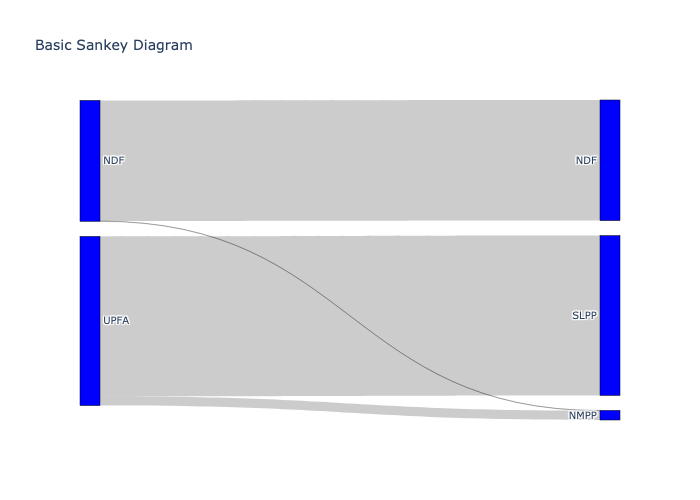
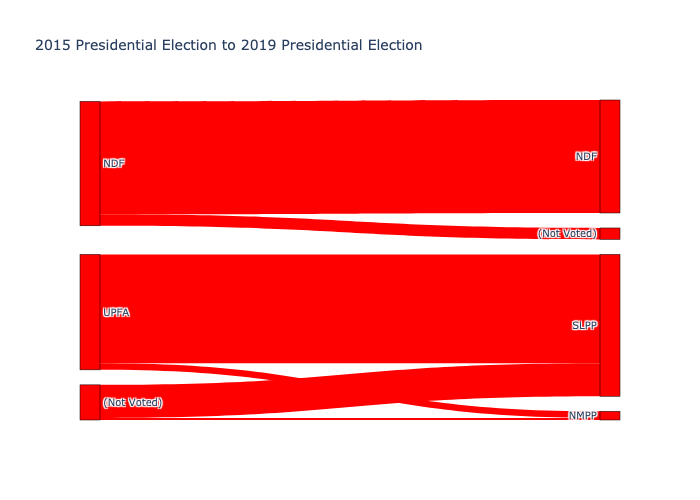
various

diff --git a/examples/example5_party_continuity/example5_party_continuity.py b/examples/example5_party_continuity/example5_party_continuity.py
@@ -4,11 +4,12 @@ import plotly.graph_objects as go
 from sklearn.linear_model import LinearRegression
 from utils import Log, TSVFile
 
-from elections_lk import ElectionPresidential
+from elections_lk import ElectionPresidential, Party
 
 log = Log('PartyContinuity')
 
 P_LIMIT = 0.005
+NOT_VOTED = '(Not Voted)'
 
 
 class PartyContinuity:
@@ -22,7 +23,7 @@ class PartyContinuity:
         idx = {}
         for result in election.results:
             id = result.region_id
-            d = result.party_to_votes.dict_p
+            d = result.party_to_votes.dict
             x = [d.get(party, 0) for party in popular_parties]
             idx[id] = x
         return [idx[id] for id in sorted(idx.keys())]
@@ -58,28 +59,60 @@ class PartyContinuity:
         )
 
     @property
-    def report_d_list(self):
+    def matrix(self):
         model = self.model
         popular_parties_x = self.election_x.get_popular_parties(P_LIMIT)
         popular_parties_y = self.election_y.get_popular_parties(P_LIMIT)
         log.debug(f'{popular_parties_x} -> {popular_parties_y}')
 
-        d_list = []
+        matrix = {}
 
         for i_x, party_x in enumerate(popular_parties_x):
-            d = {'party_x': party_x}
-            x = [
-                (1 if party == party_x else 0) for party in popular_parties_x
-            ]
-            yhat = model.predict([x])[0]
-
+            matrix[party_x] = {}
+            total = election_x.country_final_result.party_to_votes.dict.get(
+                party_x,
+                0,
+            )
             for i_y, party_y in enumerate(popular_parties_y):
-                d[party_y] = yhat[i_y]
+                matrix[party_x][party_y] = model.coef_[i_y][i_x] * total
+
+        not_visited_y = {}
+        for party_y in popular_parties_y:
+            not_visited_y[party_y] = 0
+        not_visited_y[NOT_VOTED] = 0
+
+        for party_x in popular_parties_x:
+            total_x = election_x.country_final_result.party_to_votes.dict.get(
+                party_x,
+                0,
+            )
+            total_y = sum(matrix[party_x].values())
+            not_visited_x = max(total_x - total_y, 0)
+            matrix[party_x][NOT_VOTED] = not_visited_x
+
+            if total_y > total_x:
+                r = total_x / total_y
+                for party_y in popular_parties_y:
+                    val = matrix[party_x][party_y]
+                    matrix[party_x][party_y] = val * r
+                    not_visited_y[party_y] = val * (1 - r)
+
+        matrix[NOT_VOTED] = not_visited_y
+        return matrix
+
+    @property
+    def d_list(self):
+        matrix = self.matrix
+        d_list = []
+        for party_x in matrix:
+            d = {'party': party_x}
+            for party_y, value in matrix[party_x].items():
+                d[party_y] = round(value, 0)
             d_list.append(d)
         return d_list
 
     def save(self):
-        TSVFile(self.report_file_path).write(self.report_d_list)
+        TSVFile(self.report_file_path).write(self.d_list)
         log.info(f'Saved {self.report_file_path}')
         os.system(f'open {self.report_file_path}')
 
@@ -91,7 +124,45 @@ class PartyContinuity:
             f'sankey_{self.election_x.year}_{self.election_y.year}.png',
         )
 
+    @property
+    def title(self):
+        return f'{self.election_x.title} to {self.election_y.title}'
+
     def draw(self):
+        matrix = self.matrix
+        label = []
+
+        i = 0
+        label_to_ix = {}
+        node_color = []
+        for party_x in matrix:
+            label.append(party_x)
+            label_to_ix[party_x] = i
+            i += 1
+            node_color.append(Party(party_x).color)
+
+        label_to_iy = {}
+        for party_y in list(matrix.values())[0].keys():
+            label.append(party_y)
+            label_to_iy[party_y] = i
+            i += 1
+            node_color.append(Party(party_y).color)
+
+        print(label)
+
+        source = []
+        target = []
+        value = []
+        color = []
+        for party_x in matrix:
+            i_x = label_to_ix[party_x]
+            for party_y in matrix[party_x]:
+                i_y = label_to_iy[party_y]
+                source.append(i_x)
+                target.append(i_y)
+                value.append(matrix[party_x][party_y])
+                color.append('red')
+
         fig = go.Figure(
             data=[
                 go.Sankey(
@@ -99,29 +170,20 @@ class PartyContinuity:
                         pad=15,
                         thickness=20,
                         line=dict(color="black", width=0.5),
-                        label=["NDF", "UPFA", "NDF", "SLPP", "NMPP"],
-                        color="blue",
+                        label=label,
+                        color=color,
                     ),
                     link=dict(
-                        source=[
-                            0,
-                            0,
-                            1,
-                            1,
-                        ],
-                        target=[2, 4, 3, 4],
-                        value=[
-                            0.837544922,
-                            0.001904294,
-                            1.110049477,
-                            0.064564766,
-                        ],
+                        source=source,
+                        target=target,
+                        value=value,
+                        color=color,
                     ),
                 )
             ]
         )
 
-        fig.update_layout(title_text="Basic Sankey Diagram", font_size=10)
+        fig.update_layout(title_text=self.title, font_size=10)
         fig.write_image(self.image_file_path)
         log.info(f'Saved {self.image_file_path}')
         os.system(f'open {self.image_file_path}')

diff --git a/src/elections_lk/__init__.py b/src/elections_lk/__init__.py
@@ -1,5 +1,13 @@
 from elections_lk.elections.Election import Election
-from elections_lk.elections.ElectionLocalAuthority import \
-    ElectionLocalAuthority
+from elections_lk.elections.ElectionLocalAuthority import (
+    ElectionLocalAuthority,
+)
 from elections_lk.elections.ElectionParliamentary import ElectionParliamentary
 from elections_lk.elections.ElectionPresidential import ElectionPresidential
+
+from elections_lk.core.FinalResult import FinalResult
+from elections_lk.core.Party import Party
+from elections_lk.core.PartyToSeats import PartyToSeats
+from elections_lk.core.PartyToVotes import PartyToVotes
+from elections_lk.core.Result import Result
+from elections_lk.core.SummaryStatistics import SummaryStatistics

diff --git a/src/elections_lk/elections/Election.py b/src/elections_lk/elections/Election.py
@@ -3,7 +3,9 @@ from functools import cached_property
 
 from utils import Log
 
-from elections_lk.core import PartyToVotes, Result, SummaryStatistics
+from elections_lk.core.PartyToVotes import PartyToVotes
+from elections_lk.core.Result import Result
+from elections_lk.core.SummaryStatistics import SummaryStatistics
 
 log = Log('Election')
 
@@ -16,6 +18,10 @@ def correct_int(x):
 class Election:
     year: int
     results: list
+
+    @property
+    def title(self):
+        return f'{self.year} {self.get_election_type().title()} Election'
 
     @cached_property
     def all_parties(self):

diff --git a/src/elections_lk/elections/ElectionParliamentary.py b/src/elections_lk/elections/ElectionParliamentary.py
@@ -1,9 +1,13 @@
 from functools import cached_property
 
-from elections_lk.core import FinalResult, PartyToSeats, Result
+from elections_lk.core.FinalResult import FinalResult
+from elections_lk.core.PartyToSeats import PartyToSeats
+from elections_lk.core.Result import Result
+
 from elections_lk.elections.ElectionWithPDResults import ElectionWithPDResults
-from elections_lk.elections.YEAR_TO_REGION_TO_SEATS import \
-    YEAR_TO_REGION_TO_SEATS
+from elections_lk.elections.YEAR_TO_REGION_TO_SEATS import (
+    YEAR_TO_REGION_TO_SEATS,
+)
 
 P_LIMIT_ED = 0.05
 BONUS_ED = 1

diff --git a/examples/example4_ethnic_voting/example4_ethnic_voting.py b/examples/example4_ethnic_voting/example4_ethnic_voting.py
@@ -4,8 +4,11 @@ from gig import Ent, GIGTable
 from sklearn.linear_model import LinearRegression
 from utils import Log, TSVFile
 
-from elections_lk import (ElectionLocalAuthority, ElectionParliamentary,
-                          ElectionPresidential)
+from elections_lk import (
+    ElectionLocalAuthority,
+    ElectionParliamentary,
+    ElectionPresidential,
+)
 
 GIG_TABLE_ETH = GIGTable('population-ethnicity', 'regions', '2012')
 GIG_TABLE_REL = GIGTable('population-religion', 'regions', '2012')

diff --git a/src/elections_lk/elections/ElectionPresidential.py b/src/elections_lk/elections/ElectionPresidential.py
@@ -1,6 +1,9 @@
 from functools import cached_property
 
-from elections_lk.core import FinalResult, PartyToSeats, Result
+from elections_lk.core.FinalResult import FinalResult
+from elections_lk.core.PartyToSeats import PartyToSeats
+from elections_lk.core.Result import Result
+
 from elections_lk.elections.ElectionWithPDResults import ElectionWithPDResults
 
 

diff --git a/tests/test_final_result.py b/tests/test_final_result.py
@@ -1,7 +1,11 @@
 from unittest import TestCase
 
-from elections_lk.core import (FinalResult, PartyToSeats, PartyToVotes,
-                               SummaryStatistics)
+from elections_lk import (
+    FinalResult,
+    PartyToSeats,
+    PartyToVotes,
+    SummaryStatistics,
+)
 
 TEST_RESULT = FinalResult(
     region_id='EC-01A',

diff --git a/examples/examples1_to_3_local_authority/example3_lg_results_map_filtered.py b/examples/examples1_to_3_local_authority/example3_lg_results_map_filtered.py
@@ -5,7 +5,7 @@ import matplotlib.pyplot as plt
 from gig import Ent
 
 from elections_lk import ElectionLocalAuthority
-from elections_lk.core import Party
+from elections_lk import Party
 
 if __name__ == '__main__':
     election = ElectionLocalAuthority.from_year(2018)

diff --git a/tests/test_election_parliamentary.py b/tests/test_election_parliamentary.py
@@ -1,7 +1,7 @@
 from unittest import TestCase
 
 from elections_lk import ElectionParliamentary
-from elections_lk.core import SummaryStatistics
+from elections_lk import SummaryStatistics
 
 TEST_YEAR = 2020
 TEST_ELECTION = ElectionParliamentary.from_year(TEST_YEAR)

diff --git a/tests/test_election_presidential.py b/tests/test_election_presidential.py
@@ -1,7 +1,7 @@
 from unittest import TestCase
 
 from elections_lk import ElectionPresidential
-from elections_lk.core import SummaryStatistics
+from elections_lk import SummaryStatistics
 
 TEST_YEAR = 2019
 TEST_ELECTION = ElectionPresidential.from_year(TEST_YEAR)

diff --git a/tests/test_result.py b/tests/test_result.py
@@ -1,6 +1,6 @@
 from unittest import TestCase
 
-from elections_lk.core import Result, SummaryStatistics
+from elections_lk import Result, SummaryStatistics
 
 TEST_RESULT = Result(
     region_id='EC-01A',

diff --git a/tests/test_party_to_votes.py b/tests/test_party_to_votes.py
@@ -1,6 +1,6 @@
 from unittest import TestCase
 
-from elections_lk.core import PartyToSeats, PartyToVotes
+from elections_lk import PartyToSeats, PartyToVotes
 
 TEST_PARTY_TO_VOTES = PartyToVotes(
     {
